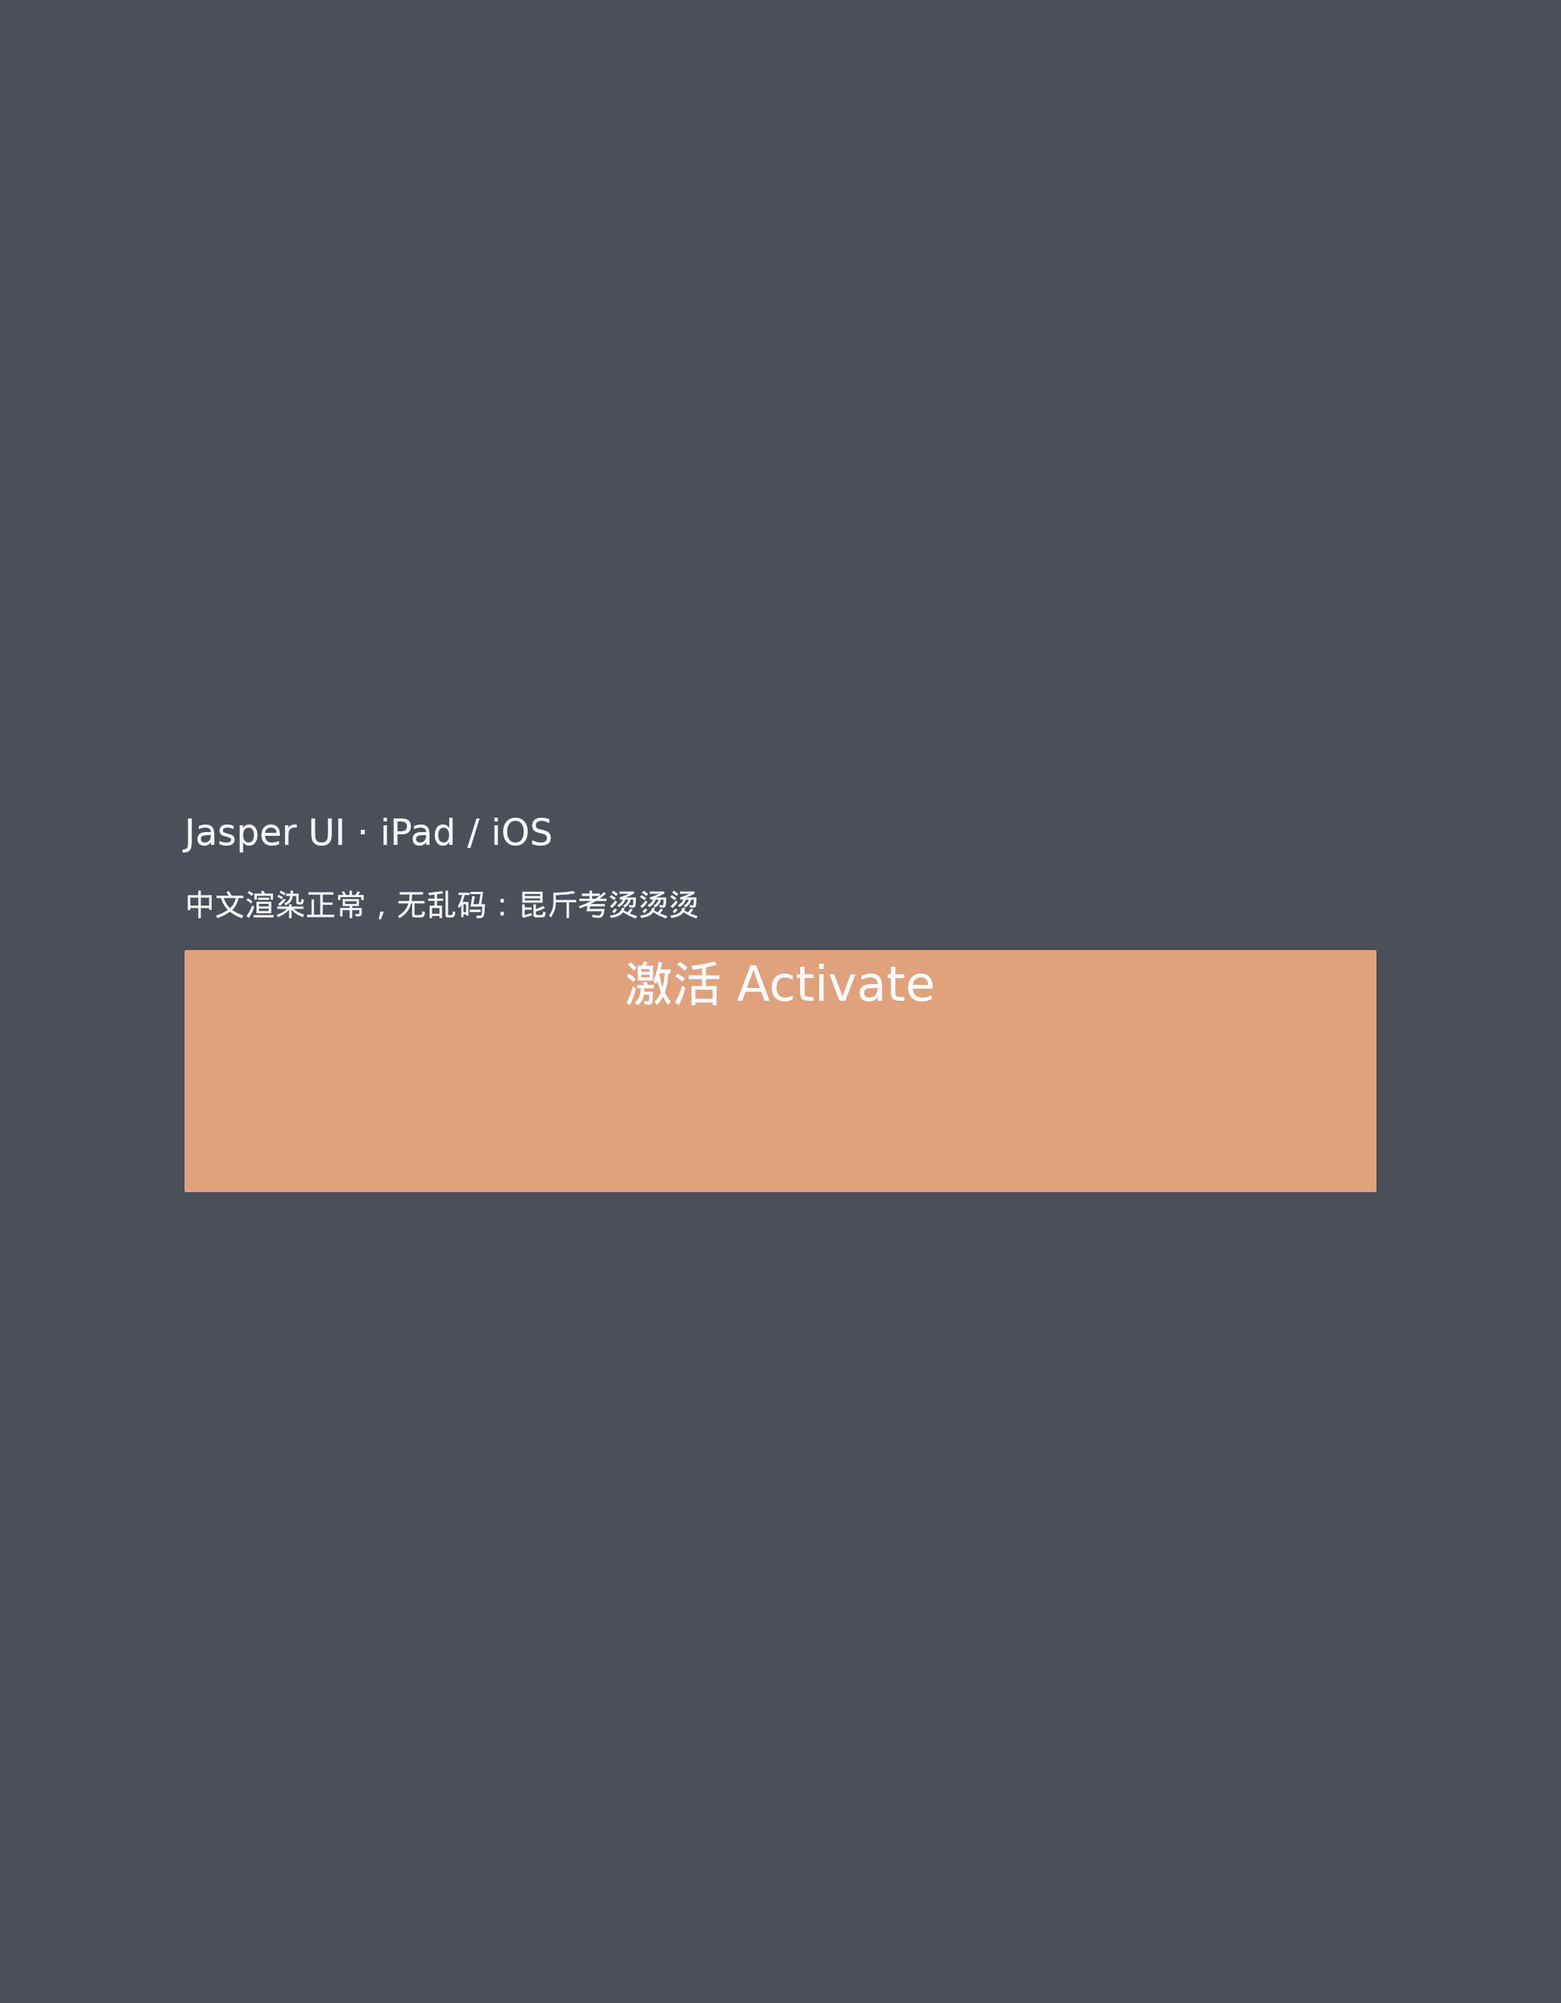
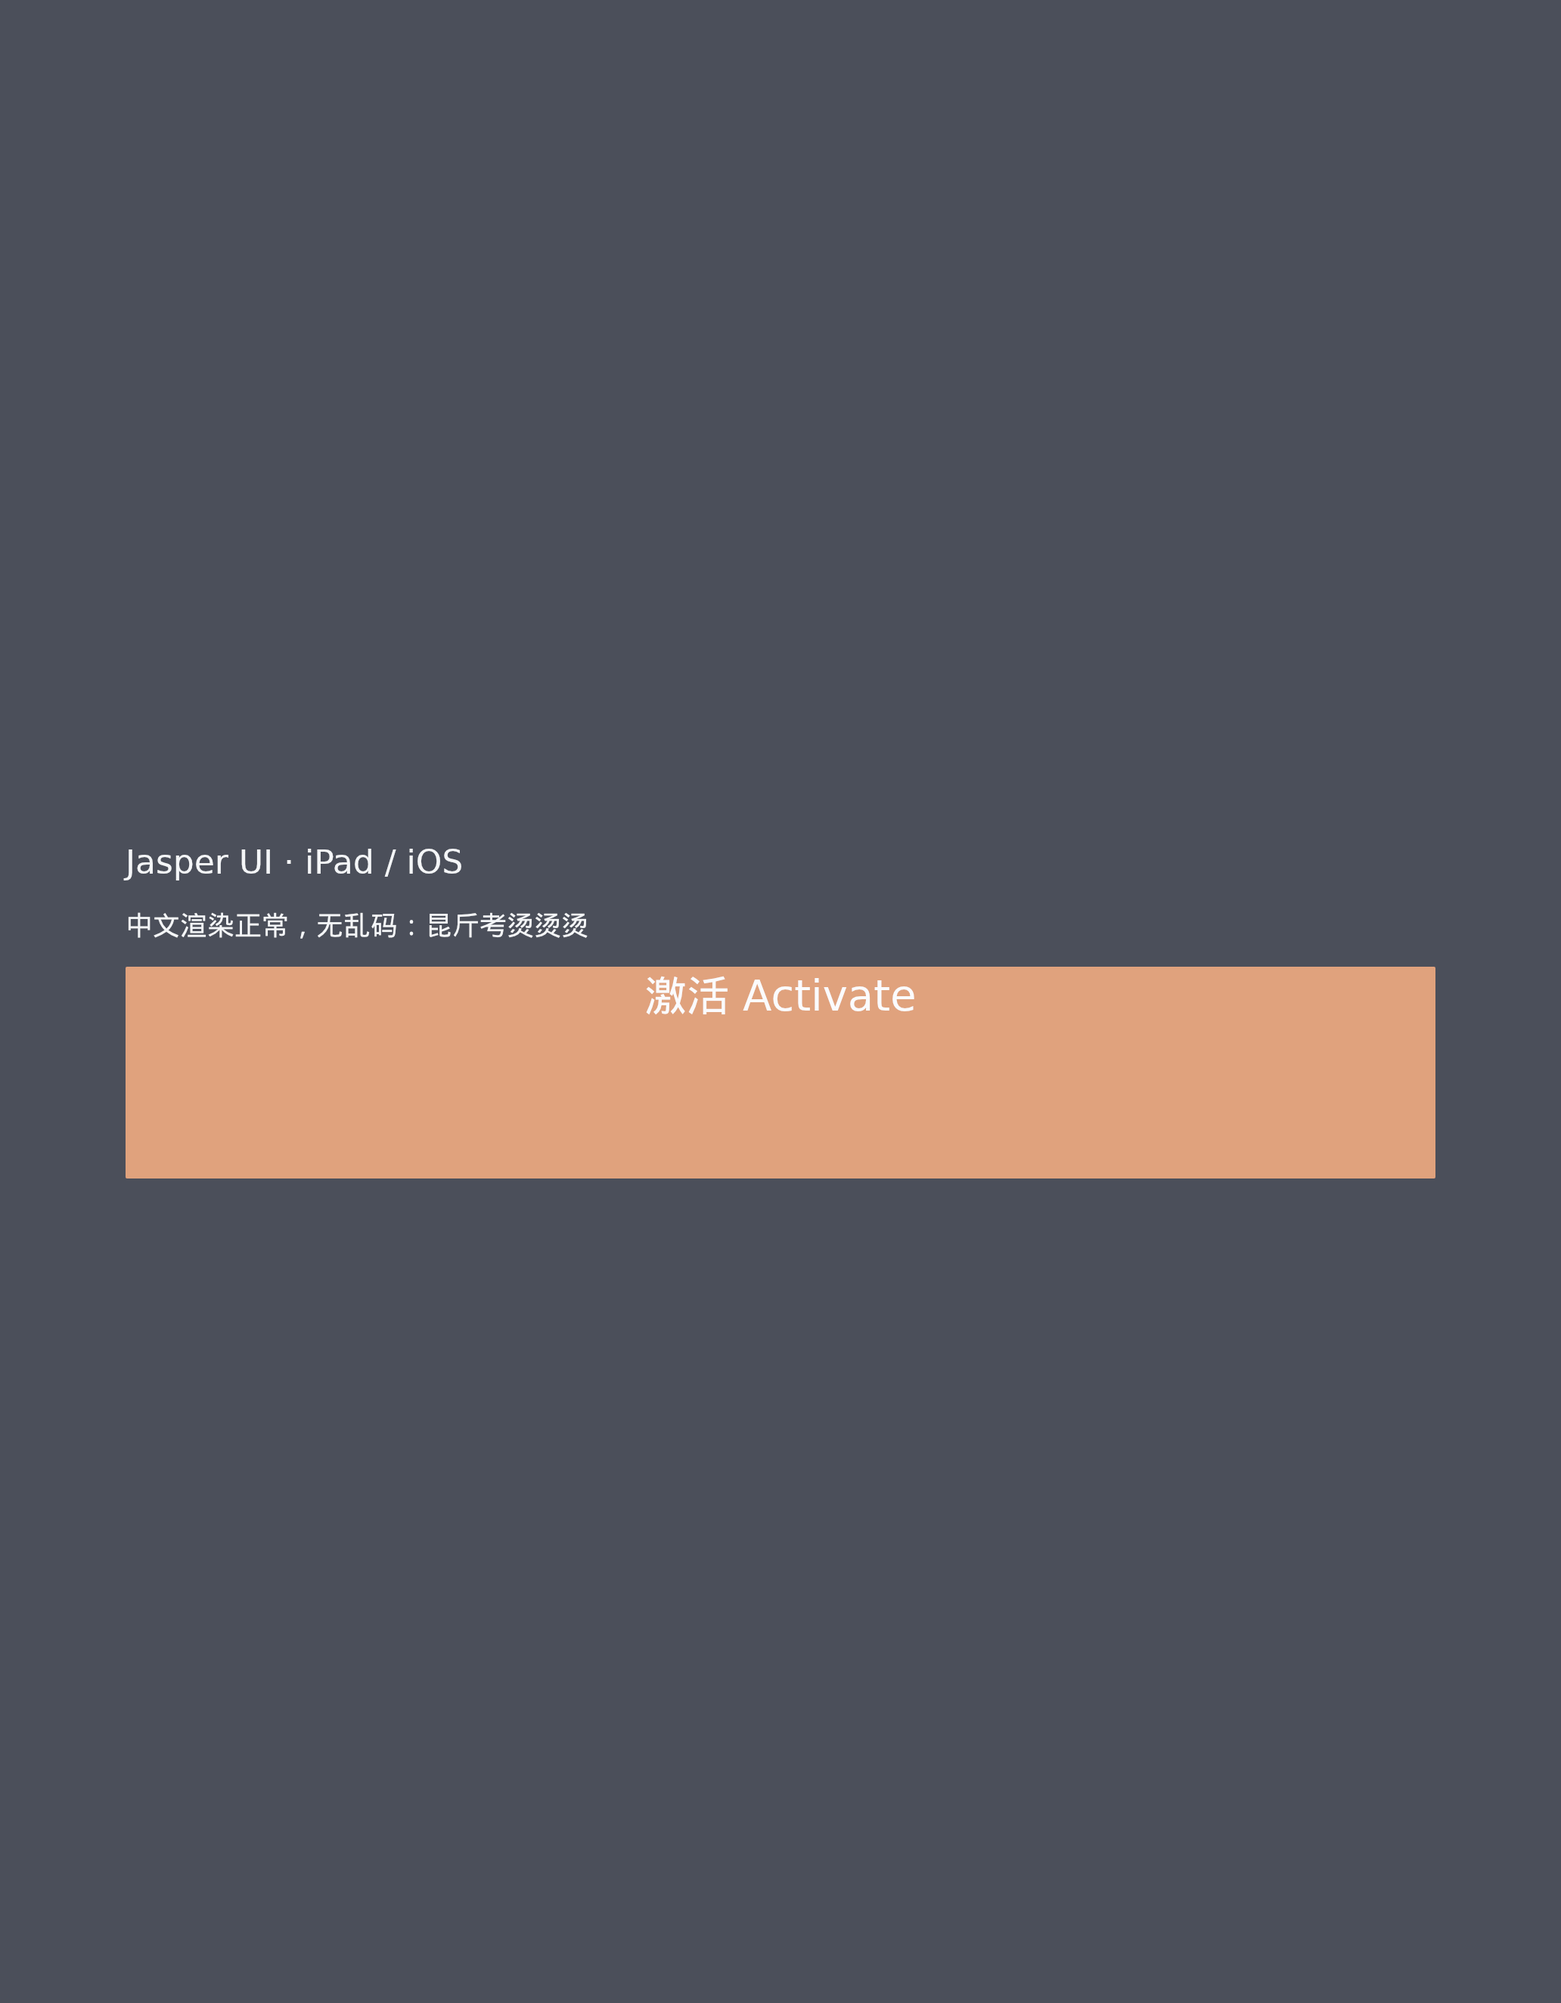
feat(ios): UIKit 安全区查询与窄屏文字布局修正
- 通过活动窗口句柄调用 `UIView.safeAreaInsets`（objc2 0.6.5 +
  raw-window-handle 0.6.2，与 winit 0.30 对齐），四个 CGFloat 点值直接作为
  逻辑点使用；根节点铺满视口，安全区转成 padding，卡片避开刘海/灵动岛/
  Home 指示条。`--insets` 可覆盖。
- 实测：iPhone 17 Pro 模拟器 insets=62,0,34,0（内容 402x682@y=62）；
  iPad Pro 13-inch (M5) insets=32,0,20,0（内容 1032x1272@y=32）。
- 修正窄屏布局：标题/中文行改为 Auto 高度，按钮 88%x140、字号下调；
  此前 iPhone 上中文行换行压住按钮，修复后截图确认无重叠。
- 模拟器证据重建（两设备截图、日志、报告），文档同步安全区状态。

Changed region(s): [[0.062, 0.4026, 0.9302, 0.5884], [0.124, 0.5884, 0.8682, 0.6193]]

diff --git a/ios/src/lib.rs b/ios/src/lib.rs
@@ -51,8 +51,8 @@ mod host {
     use winit::window::{Window, WindowId};
 
     use crate::model::{
-        pencil_sample, CalibratedForce, Content, Insets, Lifecycle, LifecycleAction,
-        PrimaryContact, Viewport,
+        pencil_sample, CalibratedForce, Insets, Lifecycle, LifecycleAction, PrimaryContact,
+        Viewport,
     };
 
     const OWNER: u64 = 0x4a53_5045_522d_494f; // "JASPER-IO"
@@ -117,6 +117,9 @@ mod host {
         /// Logical window size for the macOS adapter exercise; UIKit ignores it on device.
         /// macOS 适配器演练用的逻辑窗口尺寸；真机上 UIKit 会忽略它。
         size: Option<(f32, f32)>,
+        /// Safe-area override; `None` queries UIKit on iOS and uses zero elsewhere.
+        /// 安全区覆盖值；`None` 表示在 iOS 上查询 UIKit，其他平台为 0。
+        insets_override: Option<Insets>,
         /// Optional CJK font file injected after the Latin font by the host.
         /// 宿主在拉丁字体之后注入的可选中日韩字体文件。
         cjk_font: Option<String>,
@@ -131,6 +134,7 @@ mod host {
             frames: None,
             readback: None,
             insets: Insets::default(),
+            insets_override: None,
             timeout_ms: None,
             exit_after_ms: None,
             tap: None,
@@ -161,6 +165,7 @@ mod host {
                         return Err("--insets needs four comma-separated values".into());
                     }
                     options.insets = Insets::new(parts[0], parts[1], parts[2], parts[3]);
+                    options.insets_override = Some(options.insets);
                 }
                 "--timeout-ms" => {
                     let value = args.next().ok_or("--timeout-ms needs a number")?;
@@ -227,6 +232,60 @@ mod host {
         Ok((options, font))
     }
 
+    /// Query UIKit's safe-area insets for the live view.
+    ///
+    /// `UIView.safeAreaInsets` returns a `UIEdgeInsets` of four CGFloats in points; the engine
+    /// consumes logical points, so the values are forwarded without scaling.
+    /// 查询 UIKit 的安全区内缩：`UIView.safeAreaInsets` 返回四个以 point 为单位的 CGFloat，
+    /// 引擎使用逻辑点，因此按原值转发、不再乘以 scale。
+    #[cfg(target_os = "ios")]
+    fn safe_area_insets(window: &Window) -> Option<Insets> {
+        use objc2::encode::{Encode, Encoding};
+        use raw_window_handle::{HasWindowHandle, RawWindowHandle};
+
+        #[repr(C)]
+        #[derive(Clone, Copy, Debug, Default)]
+        struct UIEdgeInsets {
+            top: f64,
+            left: f64,
+            bottom: f64,
+            right: f64,
+        }
+
+        unsafe impl Encode for UIEdgeInsets {
+            const ENCODING: Encoding =
+                Encoding::Struct("UIEdgeInsets", &[f64::ENCODING; 4]);
+        }
+
+        let handle = window.window_handle().ok()?;
+        let RawWindowHandle::UiKit(uikit) = handle.as_raw() else {
+            return None;
+        };
+        let view = uikit.ui_view.as_ptr().cast::<objc2::runtime::AnyObject>();
+        // SAFETY: the pointer comes from winit's live window handle, and the query runs on the
+        // main thread inside the event loop callback.
+        // SAFETY：指针来自 winit 的活动窗口句柄，查询在事件循环回调的主线程上执行。
+        let insets: UIEdgeInsets = unsafe { objc2::msg_send![view, safeAreaInsets] };
+        if !insets.top.is_finite()
+            || !insets.left.is_finite()
+            || !insets.bottom.is_finite()
+            || !insets.right.is_finite()
+        {
+            return None;
+        }
+        Some(Insets::new(
+            insets.top as f32,
+            insets.right as f32,
+            insets.bottom as f32,
+            insets.left as f32,
+        ))
+    }
+
+    #[cfg(not(target_os = "ios"))]
+    fn safe_area_insets(_window: &Window) -> Option<Insets> {
+        None
+    }
+
     fn scene(chinese: bool) -> Scene {
         Scene::new(
             Node::container(NodeId(1))
@@ -242,26 +301,28 @@ mod host {
                         .background(BACKGROUND),
                 )
                 .child(
+                    // Auto height: the line must not overflow its box on a narrow phone.
+                    // 自动高度：窄屏上文字不能溢出固定高度的盒子。
                     Node::text(NodeId(3), "Jasper UI · iPad / iOS").with_style(
                         Style::default()
                             .background(BACKGROUND)
-                            .size(Length::Percent(80.0), Length::Px(32.0))
-                            .text(24.0, Color::rgb(230, 234, 240)),
+                            .size(Length::Percent(88.0), Length::Auto)
+                            .text(22.0, Color::rgb(230, 234, 240)),
                     ),
                 )
                 .child(if chinese {
                     Node::text(NodeId(4), "中文渲染正常，无乱码：昆斤考烫烫烫").with_style(
                         Style::default()
                             .background(BACKGROUND)
-                            .size(Length::Percent(80.0), Length::Px(28.0))
-                            .text(20.0, Color::rgb(230, 234, 240)),
+                            .size(Length::Percent(88.0), Length::Auto)
+                            .text(18.0, Color::rgb(230, 234, 240)),
                     )
                 } else {
                     Node::text(NodeId(4), "UTF-8 text check").with_style(
                         Style::default()
                             .background(BACKGROUND)
-                            .size(Length::Percent(80.0), Length::Px(28.0))
-                            .text(20.0, Color::rgb(230, 234, 240)),
+                            .size(Length::Percent(88.0), Length::Auto)
+                            .text(18.0, Color::rgb(230, 234, 240)),
                     )
                 })
                 .child(
@@ -274,20 +335,30 @@ mod host {
                         )
                         .with_style(
                             Style::default()
-                                .width(Length::Percent(80.0))
-                                .height(Length::Px(160.0))
+                                .width(Length::Percent(88.0))
+                                .height(Length::Px(140.0))
                                 .background(ACTIVE)
-                                .text(32.0, Color::rgb(245, 247, 250)),
+                                .text(28.0, Color::rgb(245, 247, 250)),
                         ),
                 ),
         )
     }
 
-    fn root_style(content: Content) -> Style {
+    /// Full-viewport root; the safe-area insets become padding so the card stays clear of the
+    /// notch, the Dynamic Island and the home indicator.
+    /// 铺满视口的根节点；安全区内缩转成 padding，卡片避开刘海、灵动岛与 Home 指示条。
+    fn root_style(viewport: Viewport) -> Style {
+        let (width, height) = viewport.logical_size();
+        let insets = viewport.insets;
         Style::default()
-            .width(Length::Px(content.width))
-            .height(Length::Px(content.height))
-            .padding(Edges::all(24.0))
+            .width(Length::Px(width))
+            .height(Length::Px(height))
+            .padding(Edges {
+                top: insets.top + 24.0,
+                right: insets.right + 24.0,
+                bottom: insets.bottom + 24.0,
+                left: insets.left + 24.0,
+            })
             .gap(16.0)
             .direction(FlexDirection::Column)
             .justify_content(Justify::Center)
@@ -388,11 +459,16 @@ mod host {
             let window = self.window.clone().ok_or("missing UIKit window")?;
             let physical = window.inner_size();
             let scale = window.scale_factor() as f32;
+            let insets = self
+                .options
+                .insets_override
+                .or_else(|| safe_area_insets(&window))
+                .unwrap_or_default();
             let viewport = Viewport::new(
                 physical.width.max(1),
                 physical.height.max(1),
                 scale,
-                self.options.insets,
+                insets,
             );
             if self.viewport == Some(viewport) {
                 return Ok(());
@@ -411,7 +487,7 @@ mod host {
             let old = self.scene.version();
             let patch = ScenePatch::UpdateStyle {
                 id: NodeId(1),
-                style: root_style(viewport.content()),
+                style: root_style(viewport),
             };
             self.scene
                 .apply_batch_at(old, std::slice::from_ref(&patch))
@@ -430,7 +506,7 @@ mod host {
             stage(
                 "viewport",
                 &format!(
-                    "physical={}x{} scale={} logical={:.1}x{:.1} content={:.1}x{:.1}@{:.1},{:.1} generation={}",
+                    "physical={}x{} scale={} logical={:.1}x{:.1} content={:.1}x{:.1}@{:.1},{:.1} insets={:.1},{:.1},{:.1},{:.1} generation={}",
                     viewport.physical_width,
                     viewport.physical_height,
                     viewport.scale,
@@ -440,6 +516,10 @@ mod host {
                     content.height,
                     content.x,
                     content.y,
+                    viewport.insets.top,
+                    viewport.insets.right,
+                    viewport.insets.bottom,
+                    viewport.insets.left,
                     self.generation
                 ),
             );
@@ -457,10 +537,10 @@ mod host {
             let patch = ScenePatch::UpdateStyle {
                 id: BUTTON,
                 style: Style::default()
-                    .width(Length::Percent(80.0))
-                    .height(Length::Px(160.0))
+                    .width(Length::Percent(88.0))
+                    .height(Length::Px(140.0))
                     .background(background)
-                    .text(32.0, Color::rgb(245, 247, 250)),
+                    .text(28.0, Color::rgb(245, 247, 250)),
             };
             self.scene
                 .apply_batch_at(old, std::slice::from_ref(&patch))

diff --git a/docs/ios.md b/docs/ios.md
@@ -35,8 +35,10 @@ winit 的 iOS 后端在 `EventLoop::run_app` 内调用 `UIApplicationMain`。宿
   属引擎侧缺口，不声称场景已响应压感。
 - `Viewport` 由物理尺寸、scale 与安全区内缩推导逻辑内容矩形，根场景使用内容矩形；
   整个视口仍是引擎 Surface 尺寸。
-- 当前适配器尚未查询 `UIView.safeAreaInsets`，安全区由 `--insets top,right,bottom,left`
-  由宿主给出（默认 0）。这是与真机集成的明确缺口，不冒充已实现。
+- 宿主通过活动窗口句柄查询 `UIView.safeAreaInsets`（`objc2` + `raw-window-handle`，版本与
+  winit 0.30 对齐），把四个 `CGFloat` 点值直接作为逻辑点使用；根节点铺满视口，安全区转成
+  padding，卡片因此避开刘海、灵动岛与 Home 指示条。`--insets top,right,bottom,left` 可覆盖。
+  实测 iPhone 17 Pro 模拟器为 62/0/34/0、iPad Pro 13-inch (M5) 为 32/0/20/0。
 
 ## 打包与签名
 
@@ -58,6 +60,7 @@ winit 的 iOS 后端在 `EventLoop::run_app` 内调用 `UIApplicationMain`。宿
 | 可移植规则 | `cargo test --manifest-path ios/Cargo.toml` 11/11（含 4 项 Pencil 压力/高度角） |
 | 适配器演练 | `--features host-on-macos` 把同一宿主模块编译进 macOS 构建，跑 iPhone 与 iPad 视口（含安全区内缩和点击激活） |
 | 模拟器运行时 | **通过**：iOS 26.3.1 模拟器上 iPad Pro 13-inch (M5) 与 iPhone 17 Pro 均启动、呈现 Metal 帧、点击激活并重绘、干净退出 |
+| 安全区 | **通过**：iPhone 17 Pro 模拟器 62/0/34/0、iPad Pro 13-inch 32/0/20/0，内容矩形随之收缩 |
 | 真机运行时 | **未验收**：缺开发签名证书（Xcode 账号已添加，尚未生成 Apple Development 证书） |
 | 真机 | 一台已配对 iPhone（iOS 26.6.2，USB）可被 `devicectl` 识别；iPad 之后也被识别；无签名身份，`ios/install-device.sh` 明确输出 `device_install=blocked reason=no_signing_identity` |
 
@@ -69,7 +72,7 @@ winit 的 iOS 后端在 `EventLoop::run_app` 内调用 `UIApplicationMain`。宿
 ## 未完成
 
 - 真机运行启动与画面验收（模拟器已完成）。
-- `UIView.safeAreaInsets` 查询与软键盘遮挡处理。
+- 软键盘遮挡处理（安全区已接通）。
 - 系统无障碍（钉住的 AccessKit 无 iOS 后端）、活 IME/软键盘组合、Pencil 压感进入原生场景
   （目前只到宿主边界）、倾斜/方位角与预测点。
 - Metal 设备丢失、热/功耗设备矩阵、App Store 打包与图标。

diff --git a/docs/status.md b/docs/status.md
@@ -1030,6 +1030,8 @@ Windows 10 LTSC x86_64 虚拟机参考宿主已完成运行验收：单窗口与
   `model::pencil_sample`：笔轴压力除以 `sin(高度角)` 得到垂直屏幕压力并归一，高度角向上暴露，
   平放不做除法、NaN 回退到按下/抬起默认值；宿主每个 Touch 记录 `stage=pencil`。新增 4 项
   单测（合计 11/11）。该值目前停在宿主边界——原生 `Engine::pointer` 不消费压力/倾角。
+- **安全区已接通**：宿主用 `objc2`+`raw-window-handle` 查询 `UIView.safeAreaInsets`，根节点
+  铺满视口、安全区转 padding；iPhone 17 Pro 模拟器实测 62/0/34/0，iPad Pro 13-inch 32/0/20/0。
 - **模拟器运行已验收**：安装 iOS 26.3.1 平台后，Xcode 工程构建的 app 在 iPad Pro 13-inch (M5)
   与 iPhone 17 Pro 模拟器上启动并呈现 Metal 帧（iPad 2064×2648@2、iPhone 1206×2334@3），
   首帧后点击按钮触发激活与按下色重绘，`ios_host=pass frames=2 activations=1 retired=true`；
@@ -1042,5 +1044,4 @@ Windows 10 LTSC x86_64 虚拟机参考宿主已完成运行验收：单窗口与
   自动安装并启动，当前明确输出 `simulator_run=skipped reason=no_runtime`。
 
 未完成：macOS 的 Metal 设备丢失、vsync 截止时间、活 IME、公证与 Intel 运行验收；iOS 的运行时
-与真机验收、`UIView.safeAreaInsets` 查询、系统无障碍、软键盘/IME、Pencil 压感进入原生场景
-与设备矩阵。
+与真机验收、系统无障碍、软键盘遮挡与 IME、Pencil 压感进入原生场景与设备矩阵。
